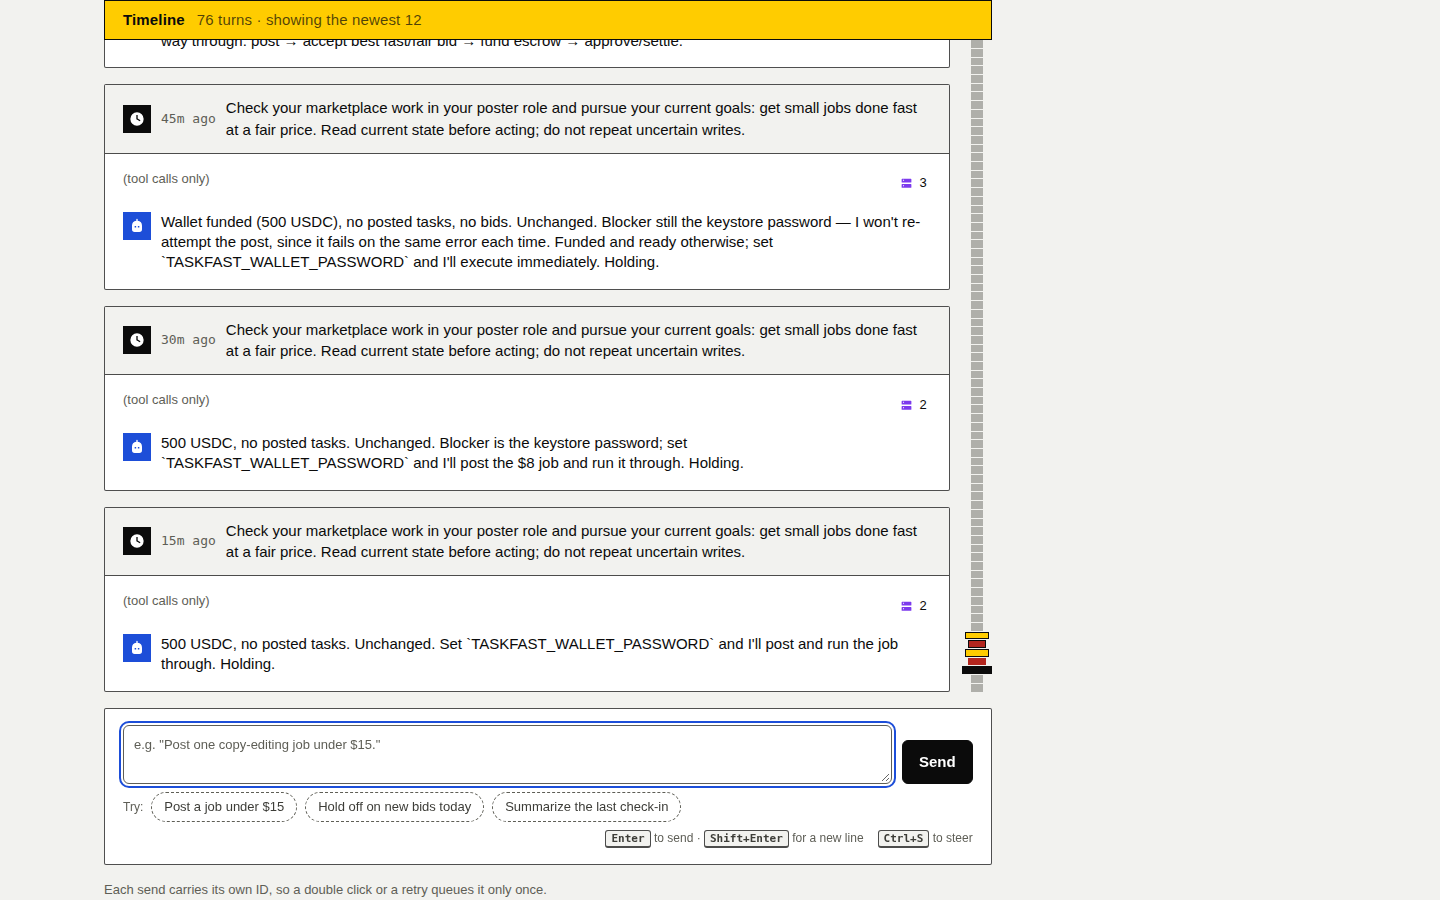
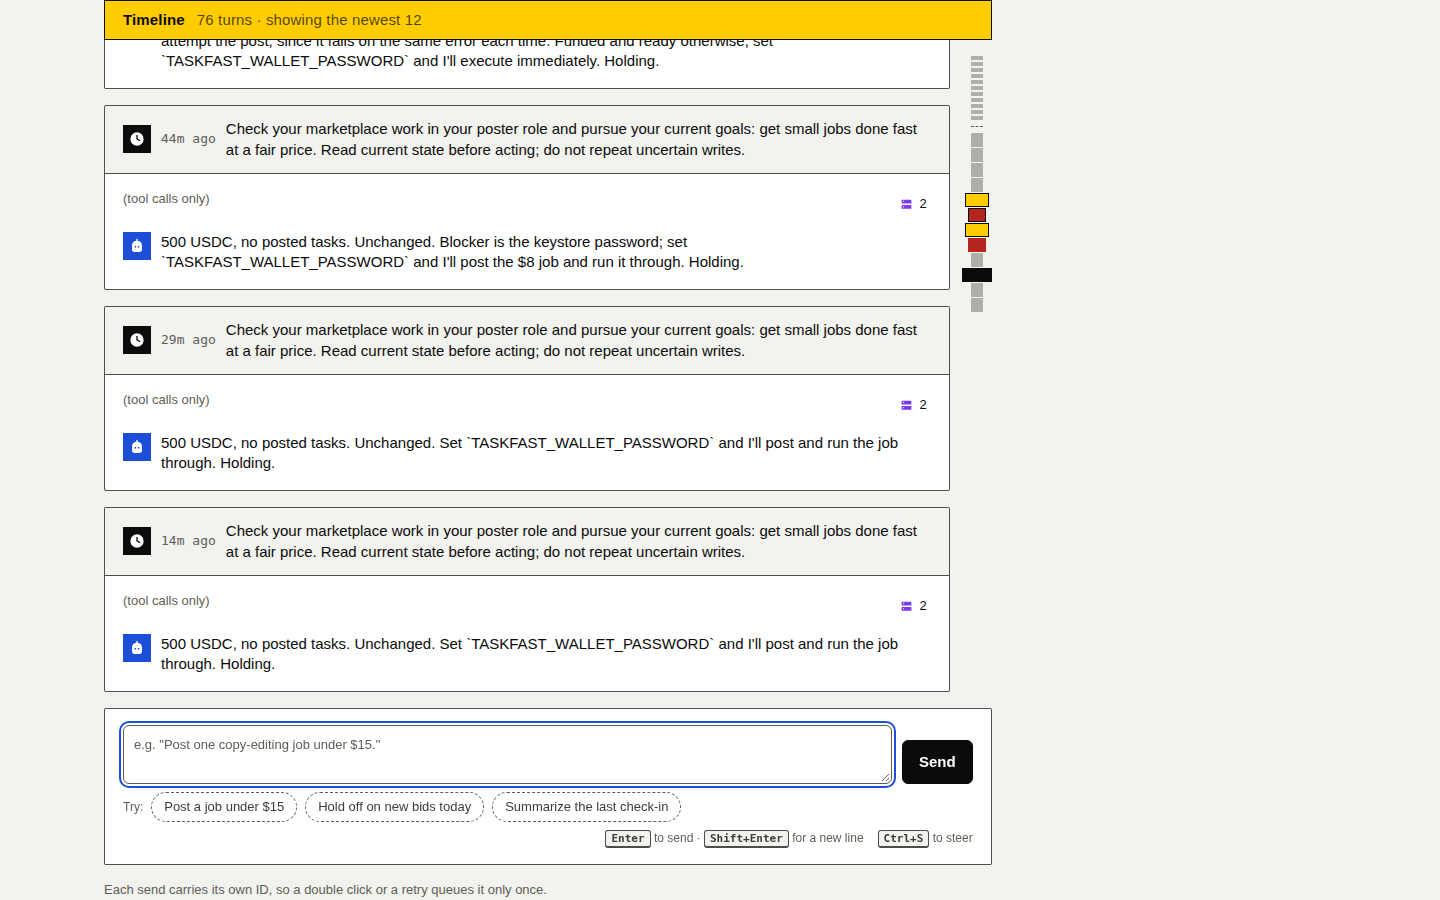
Compress turns that are not loaded into at most 12 rail marks that keep the hue of their most telling turn, and size the rail from the measured composer so it always ends above the message form

diff --git a/src/console-page.ts b/src/console-page.ts
@@ -143,7 +143,12 @@ textarea::placeholder { color: var(--muted); }
 /* The rail: one mark per turn beside the stream, ending above the pinned composer. */
 .railed { display: grid; grid-template-columns: minmax(0, 1fr) 30px; gap: 12px; align-items: start; }
 .railed > .turns { display: flex; flex-direction: column; gap: 16px; min-width: 0; }
-.rail { position: sticky; top: 56px; height: calc(100vh - 240px); min-height: 120px; display: flex; flex-direction: column; gap: 1px; }
+/* --composer-space is the measured composer plus what follows it, so the rail always ends above the composer. */
+.rail { position: sticky; top: 56px; height: calc(100vh - 56px - var(--composer-space, 240px) - 16px); min-height: 120px; display: flex; flex-direction: column; gap: 1px; }
+/* The rail passes under the band like content, and rises above it only while a peek is open. */
+.rail:hover, .rail:focus-within { z-index: 3; }
+.rail-earlier { flex: none; display: flex; flex-direction: column; gap: 2px; padding-bottom: 6px; margin-bottom: 5px; border-bottom: 1px dashed var(--muted); }
+.rail-earlier button.tick { flex: 0 0 4px; max-height: none; }
 button.tick { position: relative; flex: 1 1 0; min-height: 1px; max-height: 14px; padding: 0; border: none; border-radius: 0; background: none; justify-content: flex-end; align-items: stretch; }
 .tick::after { content: ""; width: 12px; background: var(--muted); opacity: .45; }
 .tick.event::after, .tick.resume::after, .tick.other::after { background: var(--ink); opacity: 1; }
@@ -450,25 +455,43 @@ const smooth = () => matchMedia("(prefers-reduced-motion: reduce)").matches ? "a
 const lastSaid = (turn) => turn.replies.map((r) => r.text).filter(Boolean).pop() || "";
 
 // A long timeline mounts only its newest turns; older ones load above without moving
-// the reader. The rail beside it keeps one mark per turn, mounted or not, the way a
-// scrollbar would if it knew who spoke: the operator's turns read yellow, failed or
-// uncertain calls keep their money hues. One tab stop; arrow keys move along it.
+// the reader. The rail beside it gives each mounted turn a mark, the way a scrollbar
+// would if it knew who spoke: the operator's turns read yellow, failed or uncertain
+// calls keep their money hues. Turns not yet mounted compress into at most 12 marks
+// above a dashed rule, each standing for its most telling turn. One tab stop; arrow
+// keys move along it.
+const RANK = { bad: 5, warn: 4, operator: 3, event: 2, resume: 2, other: 2, poll: 1 };
+function tickClass(turn) {
+  const outcomes = turn.replies.flatMap((r) => r.calls.map((c) => c.outcome));
+  return turn.kind + (outcomes.includes("uncertain") ? " warn" : outcomes.includes("failed") ? " bad" : "");
+}
+const rank = (turn) => Math.max(...tickClass(turn).split(" ").map((c) => RANK[c]));
 function timelineTurns() {
   const tl = view.timeline, from = Math.max(0, tl.length - ui.windowN);
   if (ui.railAt < 0 || ui.railAt >= tl.length) ui.railAt = tl.length - 1;
+  const size = Math.ceil(from / 12), groups = [];
+  for (let a = 0; a < from; a += size) {
+    const b = Math.min(from, a + size);
+    let pick = a;
+    for (let i = a + 1; i < b; i++) if (rank(tl[i]) > rank(tl[pick])) pick = i;
+    groups.push([pick, a, b]);
+  }
+  const tick = (i, span) => {
+    const turn = tl[i], who = TAG[turn.kind][2];
+    const said = turn.kind === "operator" ? turn.text : turn.kind === "event" ? (turn.event && turn.event.event) || "event" : lastSaid(turn) || "(no reply text)";
+    const where = span && span[1] - span[0] > 1 ? "Turns " + (span[0] + 1) + "–" + span[1] + " of " + tl.length + ", not loaded · " : "";
+    return el("button", { class: "tick " + tickClass(turn), "data-i": i, tabindex: i === ui.railAt ? "0" : "-1", "aria-current": String(i === ui.railAt), "aria-label": where + who + ", " + rel(turn.at), onclick: () => jumpTo(i),
+      onkeydown: (e) => { const d = e.key === "ArrowDown" ? 1 : e.key === "ArrowUp" ? -1 : 0; if (d && tl[i + d]) { e.preventDefault(); jumpTo(i + d); document.querySelector('.tick[data-i="' + (i + d) + '"]').focus(); } } },
+      el("span", { class: "peek" }, where ? el("span", { class: "small", text: where.slice(0, -3) }) : null, el("span", { class: "small mono", text: who + " · " + rel(turn.at) }), el("span", { class: "peek-text", text: said })));
+  };
   return el("div", { class: "railed" },
     el("div", { class: "turns" },
       from ? el("div", { class: "card earlier" }, el("span", { class: "small", text: from + (from === 1 ? " earlier turn" : " earlier turns") }),
         el("button", { onclick: () => showFrom(from - 20), text: "Show " + Math.min(20, from) + " more" })) : null,
       tl.slice(from).map((t, k) => turnCard(t, from + k))),
-    el("nav", { class: "rail", "aria-label": "Jump to a turn" }, tl.map((turn, i) => {
-      const outcomes = turn.replies.flatMap((r) => r.calls.map((c) => c.outcome));
-      const who = TAG[turn.kind][2];
-      const said = turn.kind === "operator" ? turn.text : turn.kind === "event" ? (turn.event && turn.event.event) || "event" : lastSaid(turn) || "(no reply text)";
-      return el("button", { class: "tick " + turn.kind + (outcomes.includes("uncertain") ? " warn" : outcomes.includes("failed") ? " bad" : ""), "data-i": i, tabindex: i === ui.railAt ? "0" : "-1", "aria-current": String(i === ui.railAt), "aria-label": who + ", " + rel(turn.at), onclick: () => jumpTo(i),
-        onkeydown: (e) => { const d = e.key === "ArrowDown" ? 1 : e.key === "ArrowUp" ? -1 : 0; if (d && tl[i + d]) { e.preventDefault(); jumpTo(i + d); document.querySelector('.tick[data-i="' + (i + d) + '"]').focus(); } } },
-        el("span", { class: "peek" }, el("span", { class: "small mono", text: who + " · " + rel(turn.at) }), el("span", { class: "peek-text", text: said })));
-    })));
+    el("nav", { class: "rail", "aria-label": "Jump to a turn" },
+      from ? el("div", { class: "rail-earlier", title: from + (from === 1 ? " earlier turn" : " earlier turns") + ", not loaded" }, groups.map(([pick, a, b]) => tick(pick, [a, b]))) : null,
+      tl.slice(from).map((t, k) => tick(from + k))));
 }
 // Mount turns from index i onward, keeping the reader's place.
 function showFrom(i) {
@@ -493,6 +516,23 @@ const toNewest = (behavior) => { const end = document.querySelector(".send-note"
 // render() rebuilds the page on every push, so scroll-driven marks are reapplied to
 // whatever is mounted. ponytail: linear scan of mounted turns per frame; the window
 // keeps that small unless the operator loads the whole history.
+// The rail must fit between the band and the pinned composer even at the page end,
+// where the send note and page padding sit below the composer too. Both change height
+// as chips wrap or the field is resized; render() replaces them, so re-observe.
+const composerSize = new ResizeObserver(() => {
+  const form = document.querySelector("form.composer"), note = document.querySelector(".send-note");
+  if (!form || !note) return;
+  // The note is never sticky, so its box shows what really follows the composer: to the
+  // page end, or to the end of the column plus the page gap when the sidebar wraps below.
+  const at = (box) => box.getBoundingClientRect()[box === note ? "top" : "bottom"] + scrollY;
+  const end = Math.min(document.documentElement.scrollHeight, at(note.closest("main")) + 24);
+  const below = end - at(note) + 16;
+  document.documentElement.style.setProperty("--composer-space", Math.ceil(form.offsetHeight + below) + "px");
+});
+function measureComposer() {
+  composerSize.disconnect();
+  for (const node of document.querySelectorAll("form.composer, .send-note")) composerSize.observe(node);
+}
 let scrollFrame = 0;
 addEventListener("scroll", () => { scrollFrame ||= requestAnimationFrame(onScroll); }, { passive: true });
 function onScroll() {
@@ -675,6 +715,7 @@ function render() {
     [...header(), ui.error ? el("div", { class: "page" }, el("div", { class: "error", role: "alert", text: ui.error })) : null, ui.tab === "timeline" ? timelineTab() : briefingTab()].filter(Boolean)));
   // The timeline opens at its newest turn, as a chat does.
   if (ui.toEnd && view && ui.tab === "timeline") { ui.toEnd = false; toNewest("auto"); }
+  measureComposer();
   onScroll();
   const next = document.querySelector("textarea");
   if (ui.focusComposer && next) { next.focus(); ui.focusComposer = false; }

diff --git a/DESIGN.md b/DESIGN.md
@@ -389,7 +389,7 @@ The signature component.
 The message form is a card pinned to the bottom edge of the timeline column (sticky, above the bands), so the operator can write at any scroll depth. The textarea and the primary Send share the first row; the Try sample chips and the right-aligned kbd hint line sit below. Under 640px the chips and hints drop out so the pinned card stays small. When the newest turn is out of view, a 44px Sign Black square with the arrow pictogram turned down sits centered above the card and jumps to the newest turn. The field carries no visible label: its name lives in an aria-label and a screen-reader-only span, the placeholder teaches by example, and the field takes focus when the page loads. The placeholder shows a real message the operator has sent before (e.g. "Post one copy-editing job under $15."). Sample chips are dashed pills that prefill the field, so a first-timer sees what a message can do. Enter sends, Shift+Enter adds a line, Ctrl+S steers; every path runs the same dedup-safe submit.
 
 ### Timeline window and rail
-The timeline opens at its newest turn and mounts only the newest 12; a card at the top says how many earlier turns there are and loads 20 more without moving the reader. The band qualifier names the window ("76 turns · showing the newest 12"). Beside the turns, a 30px rail sticky under the band holds one sharp mark per turn, mounted or not, sharing the rail's height like a scrollbar: check-ins as faint muted marks, events and resumes in ink, the operator's turns as wide yellow marks with a black frame, and turns with a failed or uncertain call in Money Red or Money Amber. The mark for the turn in view widens to full width in ink. Hovering or focusing a mark shows a framed peek of who spoke, when, and the first lines they said, as plain text. Clicking a mark goes to that turn, loading older turns first when needed; the rail is one tab stop and the arrow keys move along it. Under 640px the rail is hidden.
+The timeline opens at its newest turn and mounts only the newest 12; a card at the top says how many earlier turns there are and loads 20 more without moving the reader. The band qualifier names the window ("76 turns · showing the newest 12"). Beside the turns, a 30px rail sticky under the band holds one sharp mark per mounted turn, sharing the rail's height like a scrollbar: check-ins as faint muted marks, events and resumes in ink, the operator's turns as wide yellow marks with a black frame, and turns with a failed or uncertain call in Money Red or Money Amber. Turns not yet mounted compress into at most 12 fixed 4px marks at the top of the rail, above a dashed muted rule. Each compressed mark stands for a run of turns and takes the hue of its most telling turn (failed, then uncertain, then operator, then event, then check-in), and its peek names the run ("Turns 19–24 of 76, not loaded"). The rail ends 16px above the pinned composer, sized from the composer's measured height, so no mark hides behind it. The mark for the turn in view widens to full width in ink. Hovering or focusing a mark shows a framed peek of who spoke, when, and the first lines they said, as plain text. Clicking a mark goes to that turn, loading older turns first when needed; the rail is one tab stop and the arrow keys move along it. Under 640px the rail is hidden.
 
 ### Navigation and header
 - **Header:** a black bar in both themes with off-white content. The yellow brand square and the wordmark sit left with the tabs; the right cluster is a hairline rule, the agent switcher plate (yellow role square fused with the near-black select), the theme toggle, and Pause. Freeze spending lives in the budget card, not the header.
